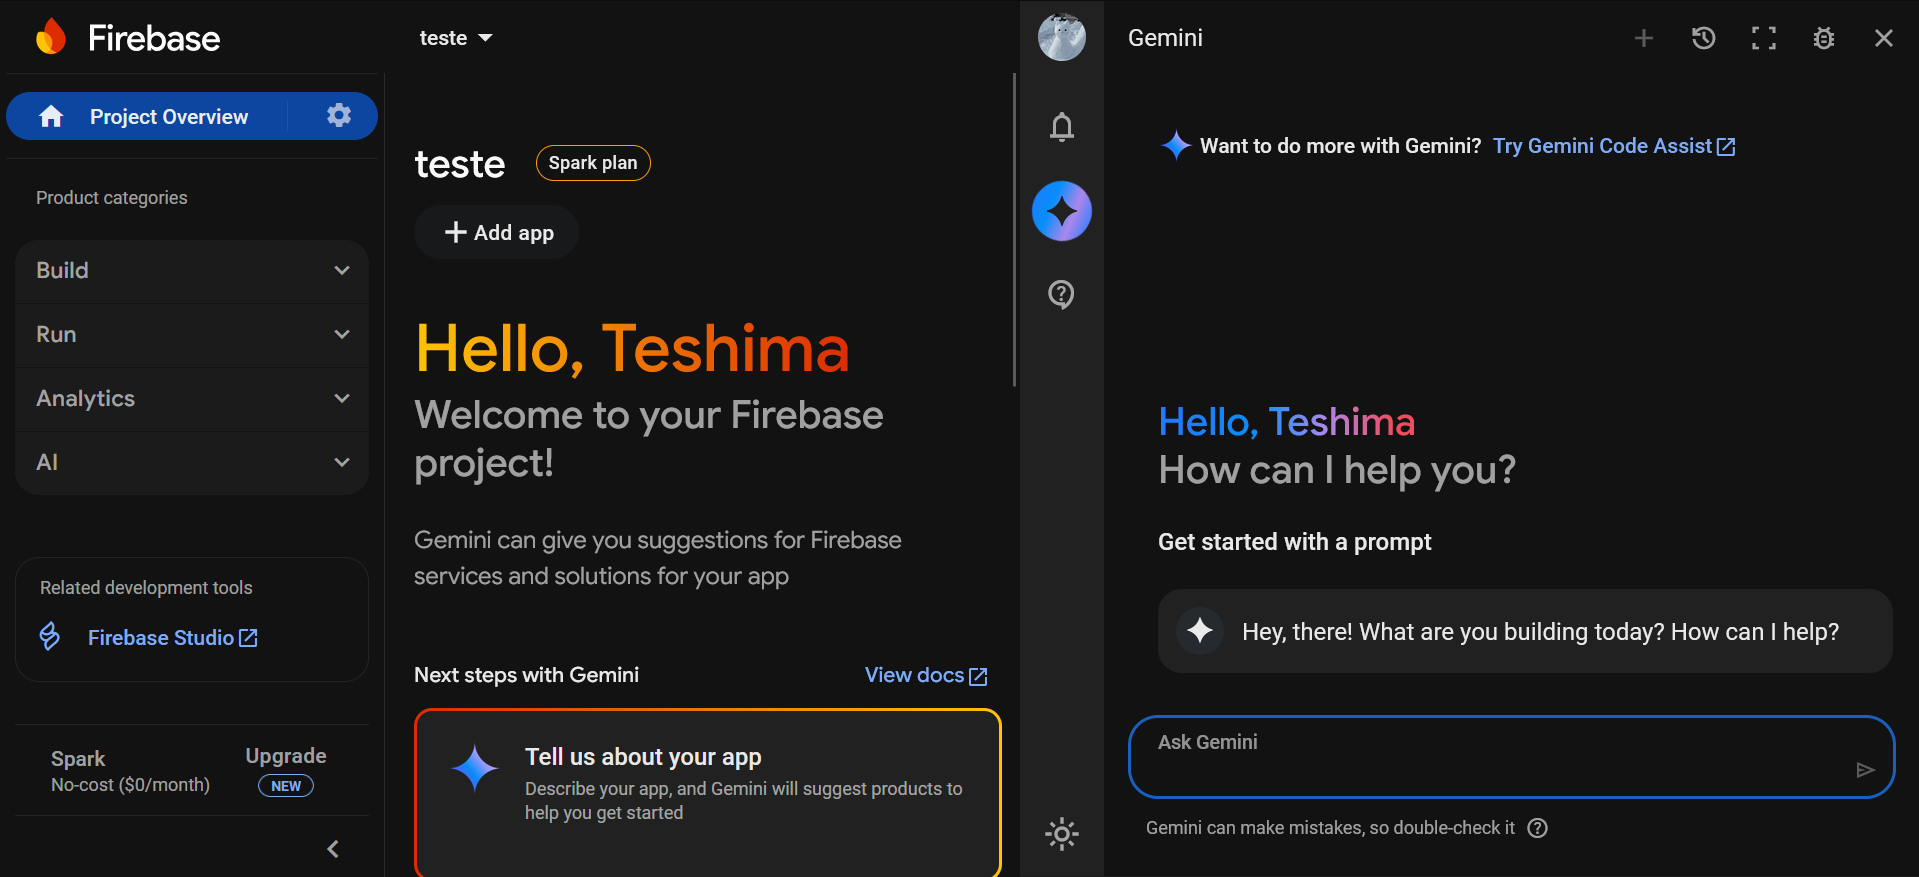
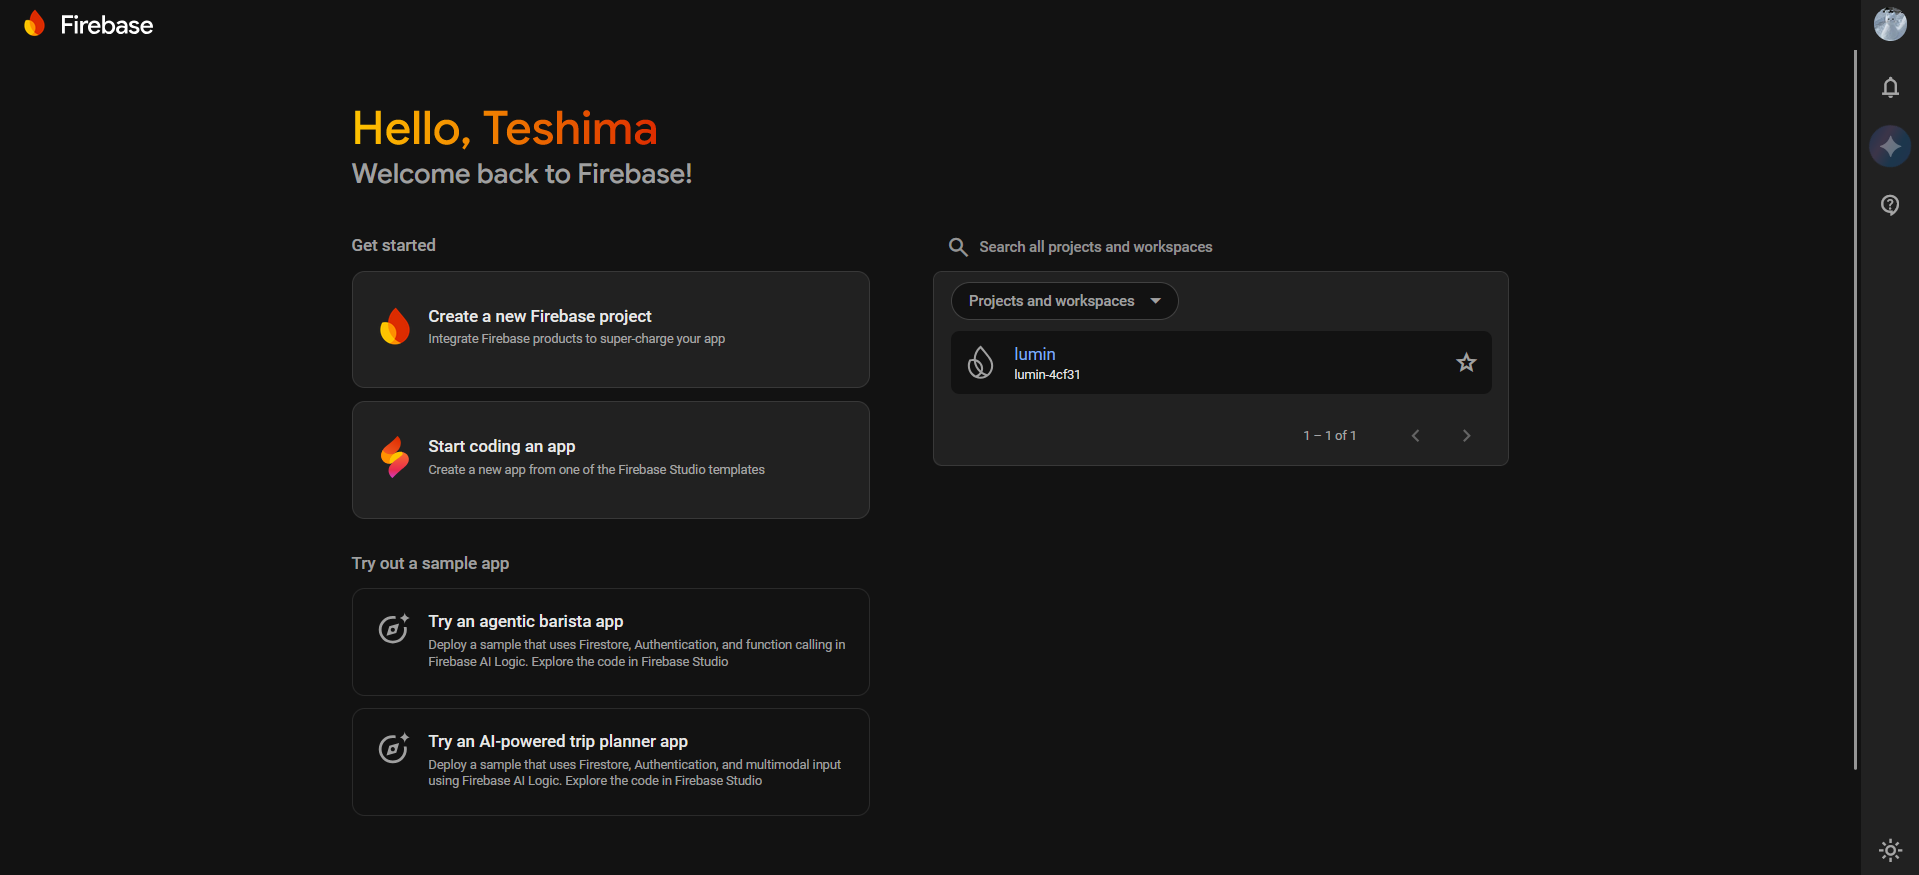
readme and guides

diff --git a/docs/supabase.md b/docs/supabase.md
@@ -1,0 +1,100 @@
+# Configuração do Supabase
+
+O Supabase é utilizado para persistir os dados da aplicação (Postgres) e para lidar com o sistema de autenticação.
+
+Esta é a dashboard ao entrar com uma conta no [Supabase](https://supabase.com/dashboard/sign-in):
+
+![Supabase Onboard](./images/supabase/supa-onboard.png)
+
+## 1. Criar organização e projeto
+
+Primeiro, crie uma organização:
+
+![Organization Creation](./images/supabase/organization-creation.png)
+
+Depois, crie um projeto. Defina o nome, gere uma senha de banco de dados e guarde essa senha com segurança. A região pode ser definida de acordo com a sua localidade.
+
+![Project Creation](./images/supabase/project-creation.png)
+
+Após a criação, você deve ver esta tela:
+
+![Onboard](./images/supabase/onboard.png)
+
+## 2. Criar as tabelas
+
+Na barra lateral, entre em "SQL Editor".
+
+![SQL Editor](./images/supabase/sql-editor.png)
+
+No editor, insira o script abaixo e clique em "Run" para criar as tabelas:
+
+```
+CREATE TABLE public.ai_chats (
+  id uuid NOT NULL DEFAULT gen_random_uuid(),
+  user_id uuid NOT NULL,
+  title text,
+  created_at timestamp with time zone NOT NULL DEFAULT now(),
+  updated_at timestamp with time zone NOT NULL DEFAULT now(),
+  CONSTRAINT ai_chats_pkey PRIMARY KEY (id)
+);
+CREATE TABLE public.ai_messages (
+  id uuid NOT NULL DEFAULT gen_random_uuid(),
+  chat_id uuid NOT NULL,
+  role text NOT NULL CHECK (role = ANY (ARRAY['user'::text, 'assistant'::text])),
+  content text NOT NULL,
+  parsed_json jsonb,
+  created_at timestamp with time zone NOT NULL DEFAULT now(),
+  CONSTRAINT ai_messages_pkey PRIMARY KEY (id),
+  CONSTRAINT ai_messages_chat_id_fkey FOREIGN KEY (chat_id) REFERENCES public.ai_chats(id)
+);
+CREATE TABLE public.tasks (
+  id uuid NOT NULL DEFAULT gen_random_uuid(),
+  user_id uuid NOT NULL DEFAULT gen_random_uuid(),
+  status text NOT NULL DEFAULT ''::text,
+  priority text NOT NULL DEFAULT ''::text,
+  type text NOT NULL,
+  name text NOT NULL,
+  description text,
+  start_date timestamp with time zone,
+  end_date timestamp with time zone,
+  created_at timestamp with time zone DEFAULT now(),
+  CONSTRAINT tasks_pkey PRIMARY KEY (id)
+);
+```
+
+## 3. Obter credenciais do projeto
+
+Vamos pegar duas informações: a URL do projeto e a chave de API.
+
+Em Project Settings > Data API, copie a Project URL.
+
+![Project Url](./images/supabase/project-url.png)
+
+Em Project Settings > API Keys (aba "API Keys"), crie uma chave em "Create new API Keys" e copie a Publishable Key.
+
+![API Keys](./images/supabase/api-keys.png)
+
+![Create API Keys](./images/supabase/create-api-key.png)
+
+![Publishable Key](./images/supabase/publishable-key.png)
+
+Abra o arquivo `services/supabase.js` no seu editor e insira a Project URL e a Publishable Key nos campos correspondentes.
+
+![Supabase Config](./images/supabase/supabase-config.png)
+
+## 4. Configurar autenticação
+
+Para habilitar a autenticação como convidado, vá em Authentication > URL Configuration.
+
+![URL Configuration](./images/supabase/site-url.png)
+
+No campo "Site URL", escreva o endereço onde você está hospedando o projeto (por exemplo, `http://localhost:5500`).
+
+Depois, em Authentication > Providers, habilite "Allow anonymous sign-ins" e os provedores desejados (Email, Google, etc.).
+
+Agora a autenticação por e-mail está configurada.
+
+## Leia também
+
+- [Configuração da autenticação com Google](./google-oauth.md)
+- [Configuração da autenticação como convidado](./anonymus-signin.md)

diff --git a/docs/setup.md b/docs/setup.md
@@ -21,42 +21,15 @@ Defina as credenciais do Supabase em `services/supabase.js` e garanta que `servi
 
 ### 3.1 Aviso importante (Firebase, Supabase e OAuth)
 
-Este projeto utiliza, respectivamente, como serviço de IA e backend: Firebase e Supabase. Em produção, ambos os serviços estão configurados para autorizar apenas a URL hospedada no GitHub Pages do projeto. Para executar localmente, siga os passos abaixo.
+Este projeto utiliza, respectivamente, como serviço de IA e backend: Firebase e Supabase. Em produção, ambos os serviços autorizam apenas a URL hospedada no GitHub Pages do projeto.
 
-- Não abra os arquivos HTML diretamente com file://. Isso fará com que os serviços do Supabase e Firebase falhem (CORS/redirect). O site precisa ser servido via http/https (ex.: Live Server no VS Code).
+- Não abra os arquivos HTML diretamente com file://. Sirva via http/https (ex.: Live Server no VS Code).
 
-Firebase (obrigatório para rodar localmente):
+Para configurar os serviços e a autenticação localmente, consulte os guias completos:
 
-1. Crie um projeto no Firebase e registre um app Web.
-2. Copie o objeto `firebaseConfig` fornecido pelo Firebase e substitua o que está configurado em `services/firebase.js`.
-3. Acesse Authentication > Settings (Configurações) > Authorized domains (Domínios autorizados) e adicione:
-   - `localhost`
-   - ou `127.0.0.1:5500` (porta padrão usada pela extensão Live Server)
+- Configuração do Supabase: [docs/supabase.md](./supabase.md)
+- Autenticação anônima (Convidado): [docs/anonymus-signin.md](./anonymus-signin.md)
+- Configuração do Firebase (Gemini AI): [docs/firebase.md](./firebase.md)
+- Login com Google (OAuth): [docs/google-oauth.md](./google-oauth.md)
 
-Supabase (obrigatório para rodar localmente):
-
-1. Crie um projeto no Supabase.
-2. Em Project Settings > Data API > Project URL, copie:
-   - Project URL
-   - Publishable (anon/public) key (localizada em Project Settings > API Keys)
-     Configure esses valores em `services/supabase.js`.
-3. Em Authentication > URL Configuration > Site URL, defina a URL do frontend (por exemplo: `http://localhost:5500`).
-4. Em Authentication > Providers, habilite:
-   - Allow anonymous sign-ins
-   - Email
-   - Google
-
-Passos opcionais:
-
-- Template de e-mail de confirmação de cadastro:
-  - Em Authentication > Email Templates > Confirm signup, cole o HTML de `email-templates/confirm-signup.html`.
-- Login com Google (OAuth):
-  1. No Google Cloud Console, crie um projeto e configure a Tela de Consentimento OAuth.
-  2. Crie um OAuth Client ID (Application type: Web application).
-  3. Configure:
-     - Authorized JavaScript origins: a URL do seu projeto no Supabase (ex.: `https://SEU_PROJECT_REF.supabase.co`)
-     - Authorized redirect URIs: `https://SEU_PROJECT_REF.supabase.co/auth/v1/callback`
-  4. Após criar o OAuth Client, copie o Client ID e o Client Secret.
-  5. No painel do Supabase, acesse Authentication > Providers > Google e cole o Client ID e Client Secret para habilitar o login com Google.
-
-Após essas configurações, sirva o frontend (ex.: Live Server) e acesse `http://localhost:5500`.
+Depois de configurar, sirva o frontend (ex.: Live Server) e acesse `http://localhost:5500`.

diff --git a/docs/firebase.md b/docs/firebase.md
@@ -1,0 +1,79 @@
+# Configuração do Firebase
+
+O Firebase no Lumin é utilizado para a funcionalidade de IA por meio de uma integração com o Gemini AI da Google.
+
+## 1. Criar o projeto
+
+Entre no site [Firebase Console](https://console.firebase.google.com/u/0/)
+
+![Onboard](./images/firebase/onboard.png)
+
+Crie um projeto.
+
+![Criação de projeto](./images/firebase/project-setup.png)
+
+Habilite a Assistência de IA (opcional).
+
+![Assistência de IA](./images/firebase/project-setup-1.png)
+
+Habilite o Google Analytics (opcional).
+
+![Google Analytics](./images/firebase/project-setup-2.png)
+
+Se ativou o Google Analytics, defina a conta.
+
+![Google Analytics](./images/firebase/google-analytics.png)
+
+Concluída a criação, seu projeto estará pronto.
+
+![Projeto Criado](./images/firebase/project-created.png)
+
+Ao criar o projeto, você deve ser redirecionado para este dashboard:
+
+![App Onboard](./images/firebase/app-onboard.png)
+
+## 2. Ativar Gemini (AI) no Firebase
+
+Na barra lateral, entre em AI > AI Logic e clique em "Get started".
+
+![AI Logic](./images/firebase/ai-logic.png)
+
+Uma janela de escolha aparecerá. Selecione o modelo de IA:
+
+- Gemini Developer API: sem custo.
+- Vertex AI Gemini API: voltado a serviços corporativos de grande escala.
+
+Para este projeto, escolha Gemini Developer API.
+
+![AI Model](./images/firebase/ai-logic-model.png)
+
+Após clicar em "Get started", começará o processo de habilitação da IA. Prossiga com "Enable".
+
+![Gemini Developer API](./images/firebase/gemini-api-enabling.png)
+
+O monitoramento da IA habilita telemetria de uso (opcional).
+
+## 3. Registrar um app Web
+
+Agora que a IA está ativada, crie um aplicativo do tipo Web no Firebase.
+
+![App Creation](./images/firebase/app-creation.png)
+
+Defina um nome. A caixa "Also set up Firebase Hosting for this app" não é necessária. Continue.
+
+![App Creation Name](./images/firebase/app-creation-name.png)
+
+O Firebase exibirá o código necessário para usar o app que você criou. Copie o trecho destacado.
+
+![Sdk CDN](./images/firebase/sdk-cdn.png)
+
+Abra o arquivo `services/firebase.js` no seu editor e substitua o objeto de configuração (o trecho destacado em vermelho) pelo snippet copiado anteriormente.
+
+![Firebase Configuration](./images/firebase/firebase-config.png)
+
+Pronto, o Firebase está configurado para uso.
+
+## Leia também
+
+- [Configuração do Supabase](./supabase.md)
+- [Hospedagem local do projeto](./setup.md)

diff --git a/docs/google-oauth.md b/docs/google-oauth.md
@@ -1,0 +1,66 @@
+# Autenticação com Google (OAuth)
+
+A autenticação com o Google funciona por meio de OAuth.
+
+Para este passo, é necessário já ter feito a [configuração do Supabase](./supabase.md).
+
+## 1. Criar projeto no Google Cloud
+
+Entre no [Google Cloud Console](https://console.cloud.google.com).
+
+![Google Cloud](./images/google-oauth/cloud.png)
+
+Crie um projeto e defina o nome.
+
+![Project Name](./images/google-oauth/create-project-name.png)
+
+Após a criação, você será redirecionado ao Google Cloud. Selecione o projeto criado.
+
+![Project Selection](./images/google-oauth/select-project.png)
+
+## 2. Configurar Tela de Permissão OAuth
+
+Na barra lateral, em "APIs e Serviços", acesse "Tela de permissão OAuth".
+
+![OAuth Screen](./images/google-oauth/aside-nav-oauth-screen.png)
+
+Você deve ver a visão geral. Vamos criar um cliente OAuth; comece por aqui.
+
+![OAuth Overview](./images/google-oauth/oauth-overview.png)
+
+Preencha os dados e crie a configuração de autenticação do projeto. Para uso público, prefira a opção "Externo", permitindo login com Google por qualquer usuário.
+
+![All Checks](./images/google-oauth/all-checks.png)
+
+## 3. Criar um OAuth Client
+
+Crie um Cliente OAuth.
+
+![OAuth Client Onboard](./images/google-oauth/client-onboard.png)
+
+Defina o tipo como "Aplicativo da Web" e dê um nome.
+
+![Client Creation](./images/google-oauth/client-creation.png)
+
+Mais abaixo, em "Origens JavaScript autorizadas", insira o endereço de hospedagem do frontend.
+
+![Authorized Origins](./images/google-oauth/origin.png)
+
+Em "URIs de redirecionamento autorizados", utilize a URL de callback disponível no [Supabase](https://supabase.com/dashboard) em Authentication > Sign in / Providers > Google.
+
+![Callback Url](./images/google-oauth/callback-url.png)
+
+![Callback Url Supabase](./images/google-oauth/supabase-callback-url.png)
+
+Após a criação, um popup exibirá o Client ID e o Client Secret.
+
+![Client Id](./images/google-oauth/client-id.png)
+![Client Secret](./images/google-oauth/client-secret.png)
+
+Agora insira esses dados nos campos correspondentes no Supabase e marque a opção "Enable Sign in with Google".
+
+![Google Settings](./images/google-oauth/google-settings.png)
+
+## Aviso
+
+A autenticação com Google pode demorar alguns minutos para funcionar após a configuração inicial.

diff --git a/README.md b/README.md
@@ -69,7 +69,17 @@ O projeto está configurado para deploy no GitHub Pages:
 - **URL de Produção**: `https://heikonsilva.github.io/lumin-venturus/`
 - **Branch de Deploy**: `main`
 
-## 🤝 Contribuição
+## 🧭 Setup e Documentação
+
+Para configurar e rodar o projeto localmente, consulte os guias abaixo:
+
+- Guia de setup local: [docs/setup.md](./docs/setup.md)
+- Configuração do Supabase: [docs/supabase.md](./docs/supabase.md)
+- Autenticação anônima (Convidado): [docs/anonymus-signin.md](./docs/anonymus-signin.md)
+- Configuração do Firebase (Gemini AI): [docs/firebase.md](./docs/firebase.md)
+- Login com Google (OAuth): [docs/google-oauth.md](./docs/google-oauth.md)
+
+## � Contribuição
 
 Para contribuir com o projeto:
 

diff --git a/docs/anonymus-signin.md b/docs/anonymus-signin.md
@@ -1,0 +1,13 @@
+# Autenticação anônima (Convidado)
+
+A autenticação como convidado permite que o usuário acesse o Lumin sem criar uma conta nem fazer login com o Google.
+A única desvantagem desse método é que não é possível fazer login novamente na mesma conta convidada posteriormente.
+
+Para este passo, é necessário já ter feito a [configuração do Supabase](./supabase.md).
+
+## Como habilitar
+
+1. No Supabase, acesse: Authentication > Sign in / Providers
+2. Marque a opção "Allow anonymous sign-ins"
+
+![Anonymous sign-in](./images/supabase/anonymous-sign-in.png)
